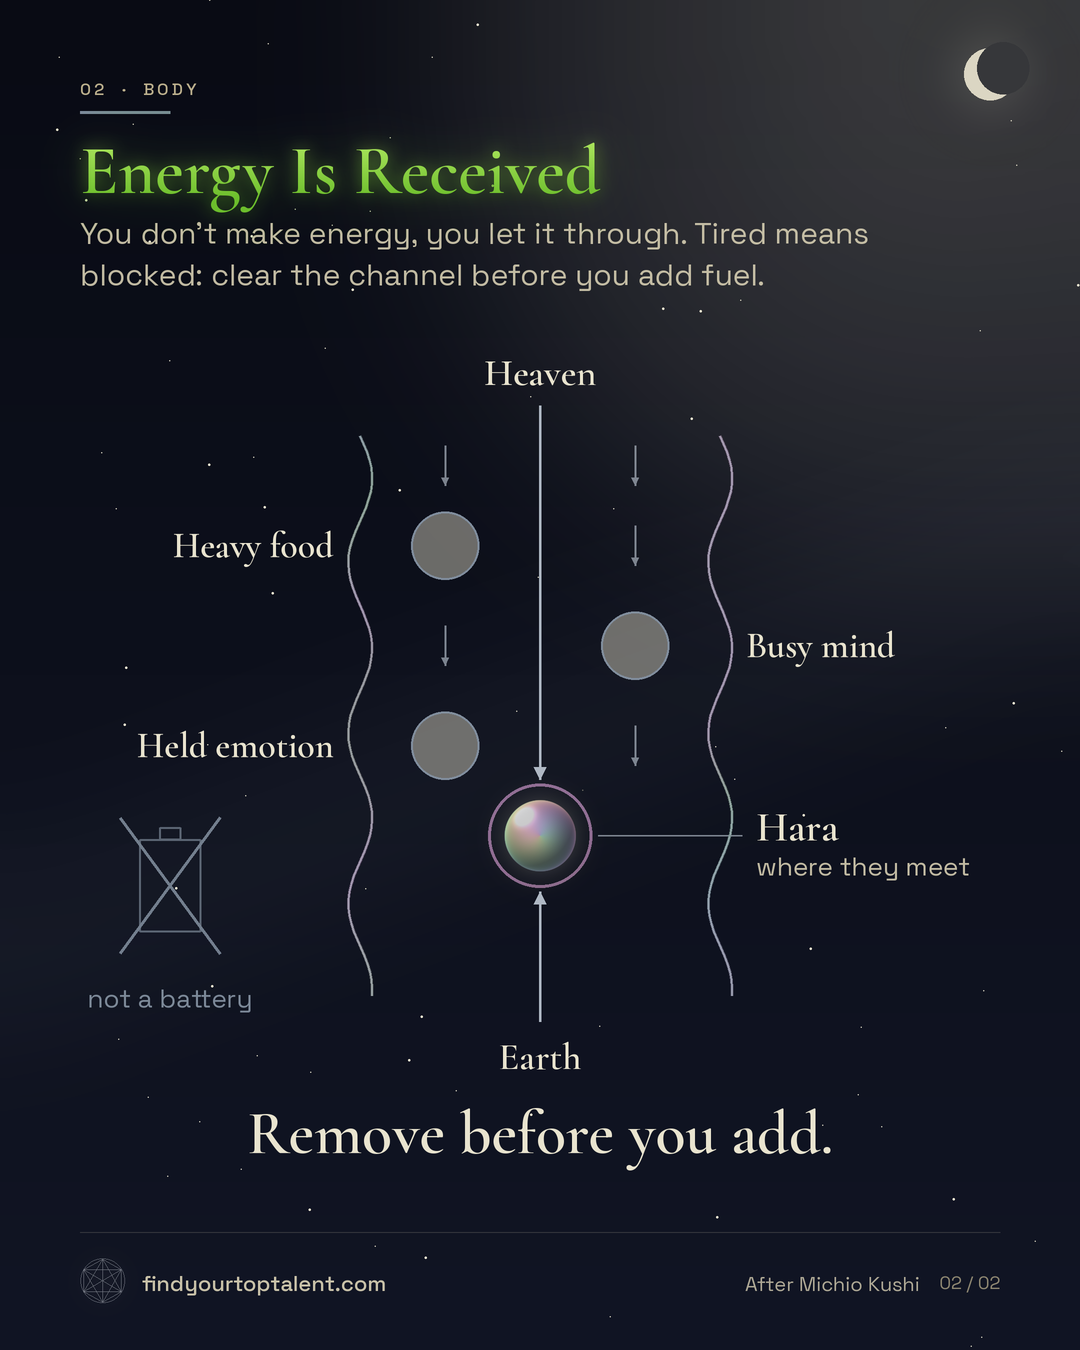
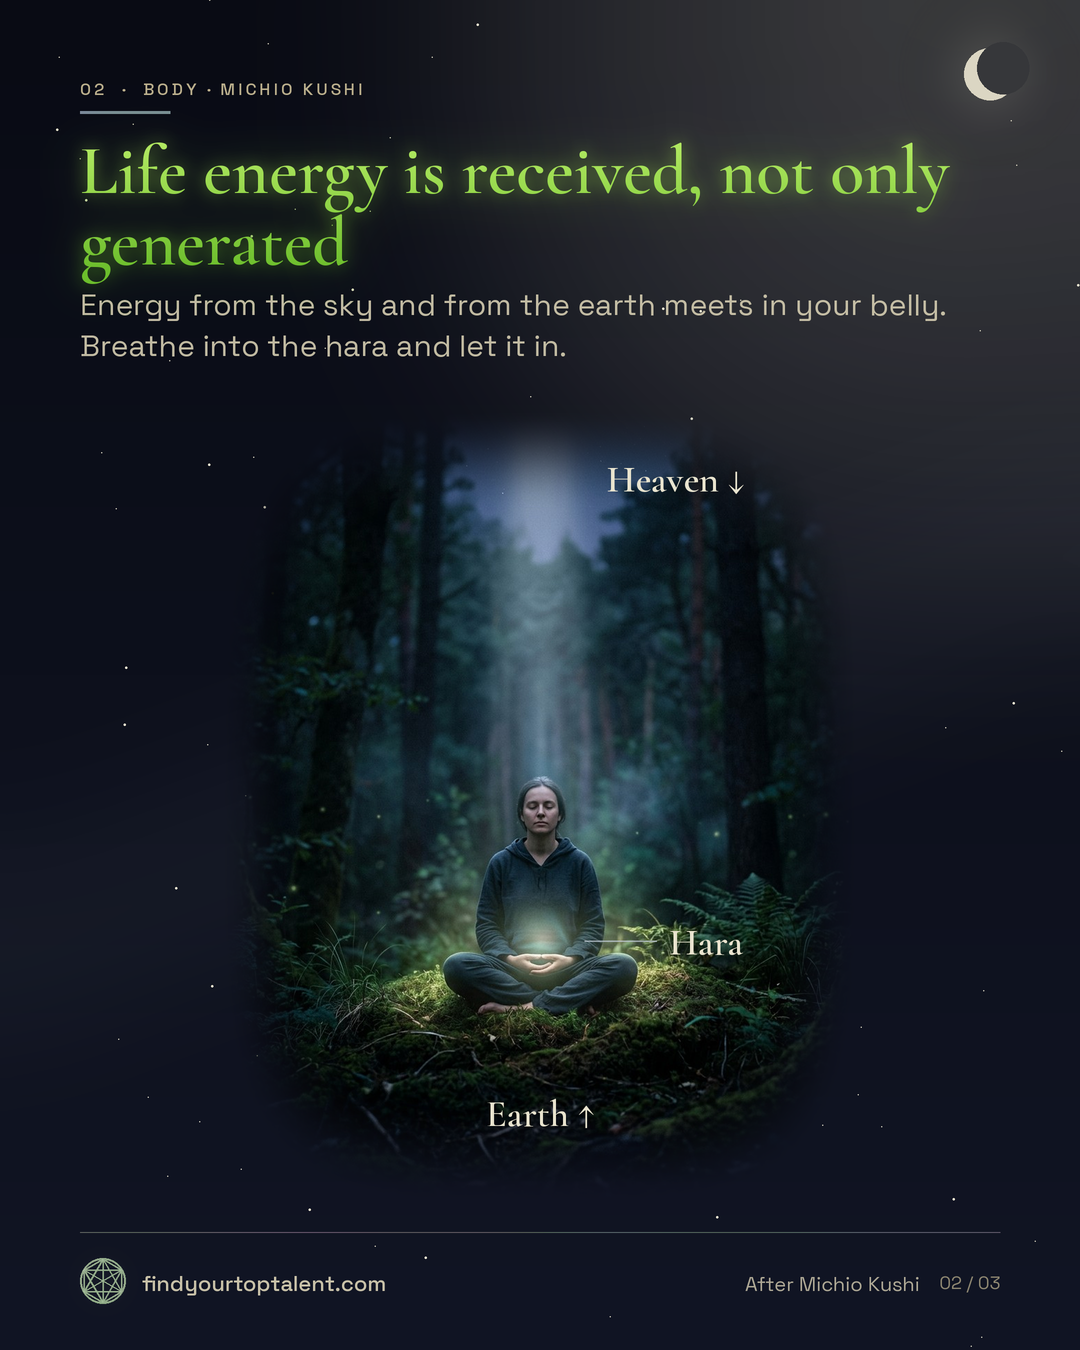
ADP Body cards v3: photo figures, title = shift
B01 v3 (flower upright, five steps at the rib tips, cycle ring, You on the throat), B02 v3, new B03 (river, not a battery). Standard kit card; only the figure is a full-colour photo. Not added to book.yaml.

Refs #569

diff --git a/docs/assets/infographics/book/adp/B02.py b/docs/assets/infographics/book/adp/B02.py
@@ -1,7 +1,19 @@
-"""B02 · Energy Is Received. All text comes from B02.card.yaml (labels are in spec.text; lint counts them apart)."""
+"""B02 · Life energy is received, not only generated. All text comes from B02.card.yaml (labels are in spec.text; lint counts them apart).
+
+Figure: the full-colour photo (photos/B02-received.jpg), never recoloured. Tags sit where the photo shows the thing:
+Heaven by the light column, Earth by the ground, Hara by the belly glow.
+"""
 import math
+import os
+
+import numpy as np
+from PIL import Image
 
 from kit import vocab as K
+
+HERE = os.path.dirname(os.path.abspath(__file__))
+S = K.S
+PW, PH = 928, 1152               # photo size (px)
 
 
 def attribution(c, s):
@@ -16,47 +28,46 @@ def attribution(c, s):
     c.footer = footer
 
 
-def bank(x, top, bot, amp=12, period=170):
-    return [(x + amp * math.sin((y - top) * 2 * math.pi / period), y) for y in range(int(top), int(bot) + 1, 8)]
+def place_photo(c, path, anchor, at, scale, p=2.0, fade=(0.80, 1.0)):
+    """Full-colour photo into the card background (under the glow and the drawing layer): `anchor` (source px) lands on `at`
+    (card px) at `scale`. Only a soft radial fade of its edges into the card background; no tint, no recolour."""
+    im = Image.open(path).convert("RGB")
+    w, h = max(1, round(im.size[0] * scale * S)), max(1, round(im.size[1] * scale * S))
+    im = im.resize((w, h), Image.LANCZOS)
+    u = (np.arange(w)[None, :] - w / 2) / (w / 2)
+    v = (np.arange(h)[:, None] - h / 2) / (h / 2)
+    d = (np.abs(u) ** p + np.abs(v) ** p) ** (1 / p)
+    t = np.clip((fade[1] - d) / (fade[1] - fade[0]), 0, 1)
+    a = (t * t * (3 - 2 * t) * 255).astype("uint8")
+    rgba = im.convert("RGBA")
+    rgba.putalpha(Image.fromarray(a, "L"))
+    layer = Image.new("RGBA", c.im.size, (0, 0, 0, 0))
+    layer.alpha_composite(rgba, (round((at[0] - anchor[0] * scale) * S), round((at[1] - anchor[1] * scale) * S)))
+    c.im = Image.alpha_composite(c.im, layer)
+
+
+
+def figure(c, t, p=4.0, fade=(0.74, 1.0)):
+    """Photo at full figure height, centred; returns the source-px -> card-px mapping."""
+    top, bot = c.body_top, 1206
+    scale = (bot - top) / PH
+    place_photo(c, os.path.join(HERE, t["photo"]), (PW / 2, 0), (540, top), scale, p=p, fade=fade)
+    return lambda sx, sy: (540 + (sx - PW / 2) * scale, top + sy * scale)
 
 
 def build(spec):
     t = spec.text
     c = K.card(spec)
     attribution(c, t["attribution"])
-    ax, half = 540, 180
-    top = c.body_top + 64
-    bot = top + 590
-    hy = top + 430
-    # hero: the river channel, water flowing down (short arrows between the banks), three rocks in the bed
-    c.ln(bank(ax - half, top + 30, bot), K.SILVER, 170, 2.4)
-    c.ln(bank(ax + half, top + 30, bot), K.SILVER, 170, 2.4)
-    c.iri_path(bank(ax - half, top + 30, bot), 3, 150)
-    c.iri_path(bank(ax + half, top + 30, bot), 3, 150)
-    rocks = [(ax - 95, top + 140, -1), (ax + 95, top + 240, 1), (ax - 95, top + 340, -1)]
-    for (sx, sy, side), label in zip(rocks, t["stones"]):
-        c.circle(sx, sy, 34, K.QUIET, 230, 2.4, fill_a=110)
-        edge = ax - half - 26 if side < 0 else ax + half + 26
-        K.name(c, edge, sy - 22, label, "right" if side < 0 else "left", size=36)
-    for fx, fy in ((ax - 95, top + 60), (ax + 95, top + 60), (ax + 95, top + 140), (ax - 95, top + 240), (ax + 95, top + 340)):
-        c.arrow(fx, fy - 20, fx, fy + 20, K.SILVER, 150, 2, head=9)
-    # heaven comes down, earth comes up; they meet at the glowing hara
-    K.name(c, ax, top - 56, t["heaven"], size=38)
-    c.arrow(ax, top, ax, hy - 56, K.SILVER, 220, 2.6, head=14)
-    c.arrow(ax, bot + 26, ax, hy + 56, K.SILVER, 220, 2.6, head=14)
-    K.name(c, ax, bot + 38, t["earth"], size=38)
-    c.orb(ax, hy, 36, glow=120)
-    c.iri_ring(ax, hy, 52, 3, 230)
-    c.ln([(ax + 58, hy), (ax + half + 22, hy)], K.SILVER, 150, 1.6)
-    K.name(c, ax + half + 36, hy - 34, t["hara"], "left", size=42)
-    K.note(c, ax + half + 36, hy + 14, t["hara_sub"], "left", size=26, color=K.MOON, a=225, maxw=250)
-    # left, small and faded: the battery model, crossed out
-    bx, by = 170, top + 480
-    c.poly([(bx - 30, by - 46), (bx + 30, by - 46), (bx + 30, by + 46), (bx - 30, by + 46)], K.QUIET, 150, 2.4)
-    c.poly([(bx - 10, by - 46), (bx - 10, by - 58), (bx + 10, by - 58), (bx + 10, by - 46)], K.QUIET, 150, 2.4)
-    c.ln([(bx - 50, by - 68), (bx + 50, by + 68)], K.QUIET, 200, 3)
-    c.ln([(bx + 50, by - 68), (bx - 50, by + 68)], K.QUIET, 200, 3)
-    K.note(c, bx, by + 96, t["battery"], size=26, color=K.QUIET, a=220, maxw=170)
-    # the takeaway: highest emphasis after the title
-    K.name(c, 540, bot + 100, t["takeaway"], size=62, maxw=900)
+    c._center = lambda: None          # the photo is placed absolutely; no vertical re-centring of the tags against it
+    at = figure(c, t)
+    with c.labels():
+        x, y = at(560, 70)
+        K.tag(c, x, y, t["heaven"], align="left", tsize=38, maxw=300)
+        x, y = at(464, 985)
+        K.tag(c, x, y, t["earth"], align="center", tsize=38, maxw=300)
+        gx, gy = at(520, 770)
+        tx, ty = at(650, 770)
+        K.tag(c, tx, ty - 22, t["hara"], align="left", tsize=38, maxw=200)
+    c.ln([(gx + 6, gy), (tx - 12, gy)], K.SILVER, 170, 1.8)
     return c

diff --git a/docs/assets/infographics/book/adp/B01.py b/docs/assets/infographics/book/adp/B01.py
@@ -1,5 +1,22 @@
-"""B01 · The Bashar Formula. All text comes from B01.card.yaml (labels are in spec.text; lint counts them apart)."""
+"""B01 · Excitement is your body's compass. All text comes from B01.card.yaml (labels are in spec.text; lint counts them apart).
+
+Figure: the full-colour photo of the five-ribbed flower (photos/B01-flower-moon.jpg, moonlight and rib angles are in the
+photo, never recoloured). Five numbered steps sit at the five rib tips, in cycle order clockwise from the top rib,
+joined by a thin ring with arrowheads (5 -> 1). `You` sits on the throat.
+"""
+import math
+import os
+
+import numpy as np
+from PIL import Image
+
 from kit import vocab as K
+
+HERE = os.path.dirname(os.path.abspath(__file__))
+S = K.S
+FLOWER_C = (512, 530)            # flower centre in the 1024 px photo
+FLOWER_R = 430                   # rim radius in the photo (px)
+RIBS = [270, 342, 54, 126, 198]  # rib angles in the photo, 0 = right, clockwise
 
 
 def attribution(c, s):
@@ -14,30 +31,55 @@ def attribution(c, s):
     c.footer = footer
 
 
+def place_photo(c, path, anchor, at, scale, p=2.0, fade=(0.80, 1.0)):
+    """Full-colour photo into the card background (under the glow and the drawing layer): `anchor` (source px) lands on `at`
+    (card px) at `scale`. Only a soft radial fade of its edges into the card background; no tint, no recolour."""
+    im = Image.open(path).convert("RGB")
+    w, h = max(1, round(im.size[0] * scale * S)), max(1, round(im.size[1] * scale * S))
+    im = im.resize((w, h), Image.LANCZOS)
+    u = (np.arange(w)[None, :] - w / 2) / (w / 2)
+    v = (np.arange(h)[:, None] - h / 2) / (h / 2)
+    d = (np.abs(u) ** p + np.abs(v) ** p) ** (1 / p)
+    t = np.clip((fade[1] - d) / (fade[1] - fade[0]), 0, 1)
+    a = (t * t * (3 - 2 * t) * 255).astype("uint8")
+    rgba = im.convert("RGBA")
+    rgba.putalpha(Image.fromarray(a, "L"))
+    layer = Image.new("RGBA", c.im.size, (0, 0, 0, 0))
+    layer.alpha_composite(rgba, (round((at[0] - anchor[0] * scale) * S), round((at[1] - anchor[1] * scale) * S)))
+    c.im = Image.alpha_composite(c.im, layer)
+
+
 def build(spec):
     t = spec.text
     c = K.card(spec)
     attribution(c, t["attribution"])
-    # five steps rise along one path toward "You"; step 1 (excitement, the body's signal) glows brightest.
-    # Each step is a full action (main line) plus one small reason (sub-line), so the labels read alone.
-    n = len(t["steps"])
-    x0, y0, dx, dy = 130, c.body_top + 730, 62, 122
-    pts = [(x0 + k * dx, y0 - k * dy) for k in range(n)]
-    you = (x0 + n * dx + 20, y0 - n * dy - 40)
-    path = pts + [you]
-    for (ax, ay), (bx, by) in zip(path, path[1:]):
-        c.ln([(ax, ay), (bx, by)], K.SILVER, 150, 2.4)
-    c.iri_path(path, 4, 150)
-    for k, ((x, y), (label, sub)) in enumerate(zip(pts, t["steps"])):
-        r = 34 if k == 0 else 26
-        c.orb(x, y, r, glow=120 if k == 0 else 40, seed=k + 1)
-        if k == 0:
-            c.iri_ring(x, y, r + 14, 3, 230)
+    c._center = lambda: None          # the photo is placed absolutely; no vertical re-centring of the labels against it
+    cx = 540
+    rr = 262                          # ring / node radius
+    scale = (rr - 30) / FLOWER_R      # flower rim sits 30 px inside the ring
+    top = c.body_top
+    cy = top + 440                    # label + ring + labels balanced in the body area (about 100 px air above and below)
+    place_photo(c, os.path.join(HERE, t["photo"]), FLOWER_C, (cx, cy), scale, p=2.0, fade=(0.84, 1.0))
+    # thin ring with arrowheads between the five nodes (a cycle, 5 -> 1)
+    nr, gap = 22, math.degrees(math.asin(22 / rr)) + 4
+    for k, a0 in enumerate(RIBS):
+        a1 = a0 + 72
+        c.arc_arrow(cx, cy, rr, a0 + gap, a1 - gap, K.SILVER, 200, 2.2, head=13)
+    for k, (ang, label) in enumerate(zip(RIBS, t["steps"])):
+        nx, ny = cx + rr * math.cos(math.radians(ang)), cy + rr * math.sin(math.radians(ang))
+        c.orb(nx, ny, nr, glow=70 if k == 0 else 40, seed=k + 1)
         with c.labels():
-            c.ctext(x, y - (18 if k == 0 else 15), str(k + 1), "sansm", 30 if k == 0 else 26, K.DARK, 255, maxw=60, lh=1.05)
-        ny = K.name(c, x + r + 24, y - 38, label, "left", size=40 if k == 0 else 38, maxw=560)
-        K.note(c, x + r + 24, y - 38 + (46 if k == 0 else 44), sub, "left", size=26, color=K.QUIET, a=235, maxw=560)
-    c.orb(you[0], you[1], 52, glow=90)
+            c.ctext(nx, ny - 15, str(k + 1), "sansm", 26, K.DARK, 255, maxw=60, lh=1.05)
+            if ang == 270:
+                K.tag(c, nx, ny - nr - 14 - 38, label, align="center", tsize=34, maxw=520)
+            elif ang in (342, 54):
+                x = nx + nr + 14
+                K.tag(c, x, ny - 18, label, align="left", tsize=29, maxw=1000 - x)
+            else:
+                x = nx - nr - 14
+                K.tag(c, x, ny - 18, label, align="right", tsize=29, maxw=x - 80)
+    # `You` on the throat
+    c.orb(cx, cy, 40, glow=90)
     with c.labels():
-        c.ctext(you[0], you[1] - 22, t["center"], "serif", 44, K.DARK, 255, maxw=100, lh=1.05)
+        c.ctext(cx, cy - 20, t["center"], "serif", 40, K.DARK, 255, maxw=100, lh=1.05)
     return c

diff --git a/docs/assets/infographics/book/adp/B03.py b/docs/assets/infographics/book/adp/B03.py
@@ -1,0 +1,83 @@
+"""B03 · You are a river, not a battery. All text comes from B03.card.yaml (labels are in spec.text; lint counts them apart).
+
+Figure: the full-colour photo (photos/B03-river.jpg), never recoloured. Tags sit on the three rocks in the stream
+(Heavy food, Busy mind, Held emotion); a small tag marks the battery at lower left.
+"""
+import math
+import os
+
+import numpy as np
+from PIL import Image, ImageDraw, ImageFilter
+
+from kit import vocab as K
+
+HERE = os.path.dirname(os.path.abspath(__file__))
+S = K.S
+PW, PH = 928, 1152               # photo size (px)
+
+
+def attribution(c, s):
+    """The 'After ...' line in the footer row (footer text is outside the prose word count)."""
+    draw_footer = c.footer
+
+    def footer():
+        draw_footer()
+        c._role = "footer"
+        c.rtext(920, 1258 + 13, s, "sans", 20, K.MOON, 200, maxw=520)
+        c._role = "body"
+    c.footer = footer
+
+
+def place_photo(c, path, anchor, at, scale, p=2.0, fade=(0.80, 1.0)):
+    """Full-colour photo into the card background (under the glow and the drawing layer): `anchor` (source px) lands on `at`
+    (card px) at `scale`. Only a soft radial fade of its edges into the card background; no tint, no recolour."""
+    im = Image.open(path).convert("RGB")
+    w, h = max(1, round(im.size[0] * scale * S)), max(1, round(im.size[1] * scale * S))
+    im = im.resize((w, h), Image.LANCZOS)
+    u = (np.arange(w)[None, :] - w / 2) / (w / 2)
+    v = (np.arange(h)[:, None] - h / 2) / (h / 2)
+    d = (np.abs(u) ** p + np.abs(v) ** p) ** (1 / p)
+    t = np.clip((fade[1] - d) / (fade[1] - fade[0]), 0, 1)
+    a = (t * t * (3 - 2 * t) * 255).astype("uint8")
+    rgba = im.convert("RGBA")
+    rgba.putalpha(Image.fromarray(a, "L"))
+    layer = Image.new("RGBA", c.im.size, (0, 0, 0, 0))
+    layer.alpha_composite(rgba, (round((at[0] - anchor[0] * scale) * S), round((at[1] - anchor[1] * scale) * S)))
+    c.im = Image.alpha_composite(c.im, layer)
+
+
+
+def scrim(c, cx, cy, w, h, a=150):
+    """A soft dark pad under a tag so it reads over a busy photo (the photo itself is not touched)."""
+    m = Image.new("L", c.im.size, 0)
+    ImageDraw.Draw(m).ellipse([(cx - w / 2) * S, (cy - h / 2) * S, (cx + w / 2) * S, (cy + h / 2) * S], fill=a)
+    m = m.filter(ImageFilter.GaussianBlur(16 * S))
+    pad = Image.new("RGBA", c.im.size, K.DARK + (255,))
+    pad.putalpha(m)
+    c.im = Image.alpha_composite(c.im, pad)
+
+
+def figure(c, t, p=4.0, fade=(0.74, 1.0)):
+    """Photo at full figure height, centred; returns the source-px -> card-px mapping."""
+    top, bot = c.body_top, 1206
+    scale = (bot - top) / PH
+    place_photo(c, os.path.join(HERE, t["photo"]), (PW / 2, 0), (540, top), scale, p=p, fade=fade)
+    return lambda sx, sy: (540 + (sx - PW / 2) * scale, top + sy * scale)
+
+
+def build(spec):
+    t = spec.text
+    c = K.card(spec)
+    attribution(c, t["attribution"])
+    c._center = lambda: None          # the photo is placed absolutely; no vertical re-centring of the tags against it
+    at = figure(c, t)
+    rocks = [(250, 555), (480, 558), (755, 535)]   # top of each rock in the photo (px)
+    with c.labels():
+        for (sx, sy), label in zip(rocks, t["stones"]):
+            x, y = at(sx, sy)
+            scrim(c, x, y - 60, 210, 70)
+            K.tag(c, x, y - 78, label, align="center", tsize=32, maxw=220)
+            c.ln([(x, y - 34), (x, y - 6)], K.SILVER, 170, 1.8)
+        x, y = at(225, 1012)
+        K.tag(c, x, y, t["battery"], align="center", tsize=26, maxw=240)
+    return c
